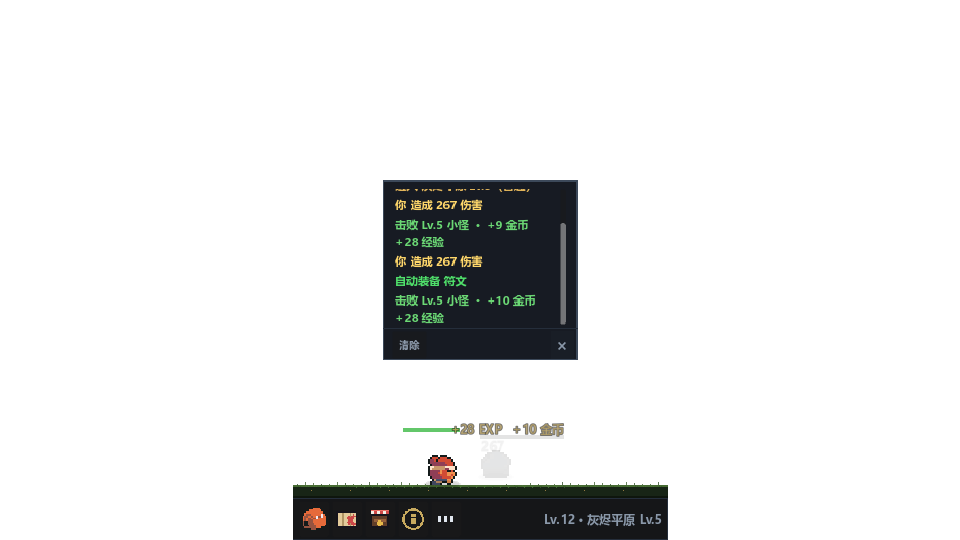
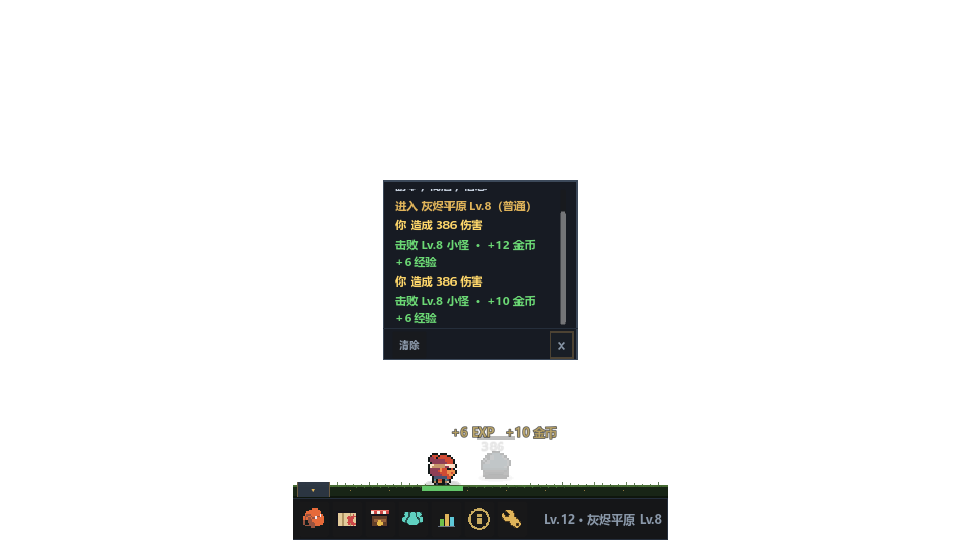
Fix click-through UI clipping and polish tab

diff --git a/README.md b/README.md
@@ -2,7 +2,7 @@
 
 桌面宠物式像素挂机小游戏。没有技能、没有手动战斗，只有角色天赋、装备词条和一路变强的数字。
 
-- 版本：0.39.0
+- 版本：0.40.0
 - 引擎：Godot 4.7.2（GL Compatibility）
 - 逻辑分辨率：1280 × 720
 - 实际窗口：960 × 540，**无边框、透明、可拖动**
@@ -23,7 +23,8 @@
 ## 点击穿透
 
 - 透明空白区域的鼠标点击会穿透到下方软件，可以直接操作被游戏窗口遮住的程序
-- 角色、草坪、底部按钮、打开的面板仍会正常接收鼠标事件
+- 角色、草坪、底部按钮仍会正常接收鼠标事件
+- 打开任意面板时会暂停点击穿透，避免面板或人物被窗口区域裁切；关闭面板后自动恢复
 - 角色选择阶段保持整窗交互，避免无法选角色
 - 拖拽游戏窗口时可抓住角色、草坪或底部区域
 
@@ -118,7 +119,7 @@
 - 队伍窗口底部以头像示意站位，拖动头像调整顺序；位置唯一，战斗开始后锁定
 - 不共享地图；每名玩家保留自己的主界面，队友小人在自己的小人左侧同行
 - 队长在副本地图选择和开始副本；队伍窗口不提供选择/开始操作；自动模式按队长设置执行
-- 主界面背包按钮上方、草坪底部新增收起按钮，已加宽压扁并留出间距，不遮挡背包按钮；可隐藏/展开整个底部按钮区
+- 主界面背包按钮上方、草坪底部新增收起按钮，已加宽压扁并留出间距，不遮挡背包按钮；按钮使用浅灰蓝底，与草坪和底部栏有对比，可隐藏/展开整个底部按钮区
 
 ![队友装备](shots/v360_inspect.png)
 
